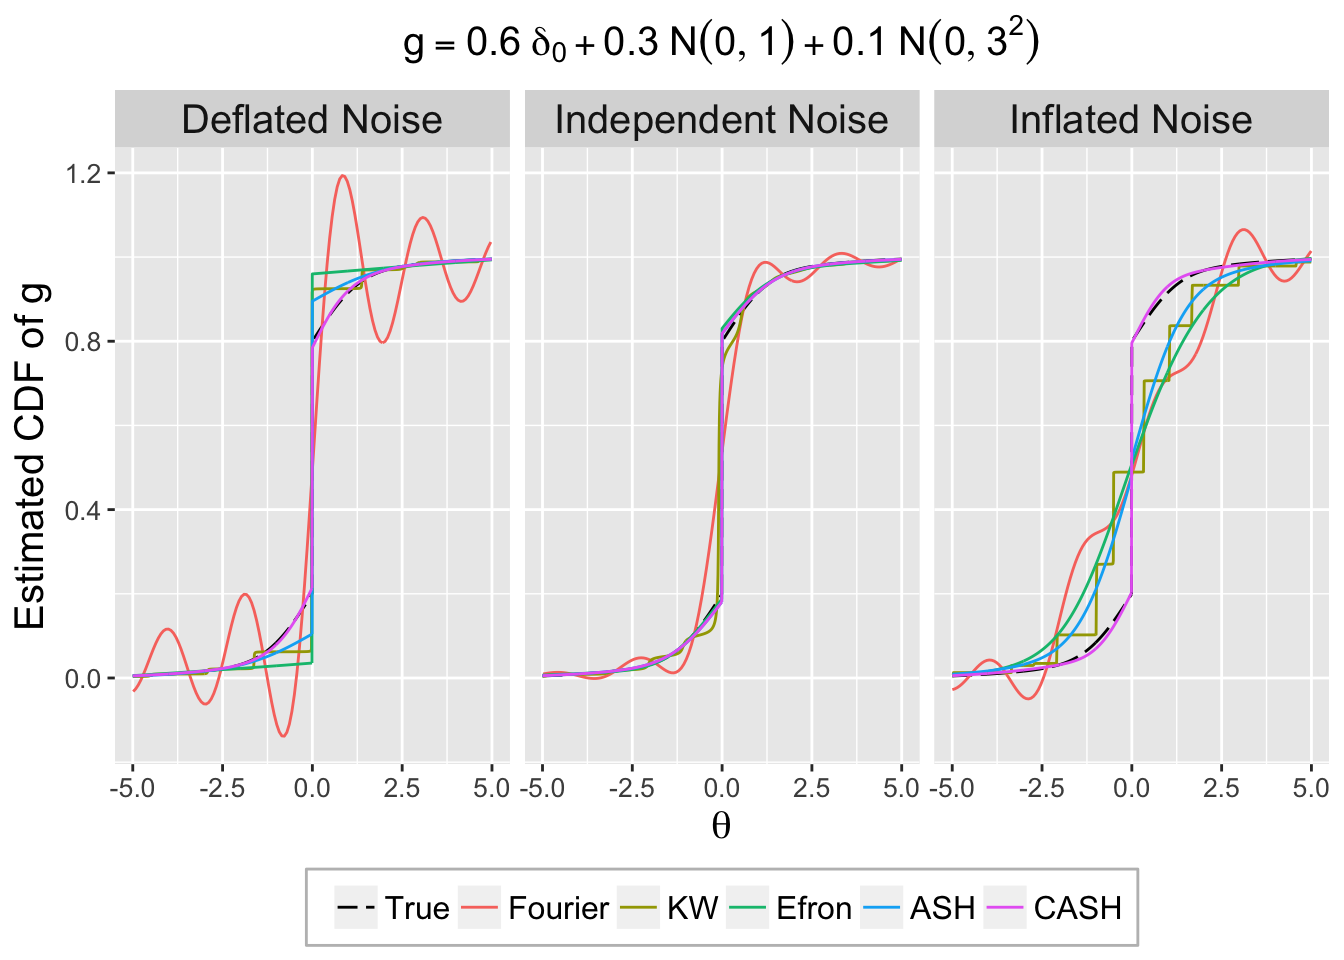
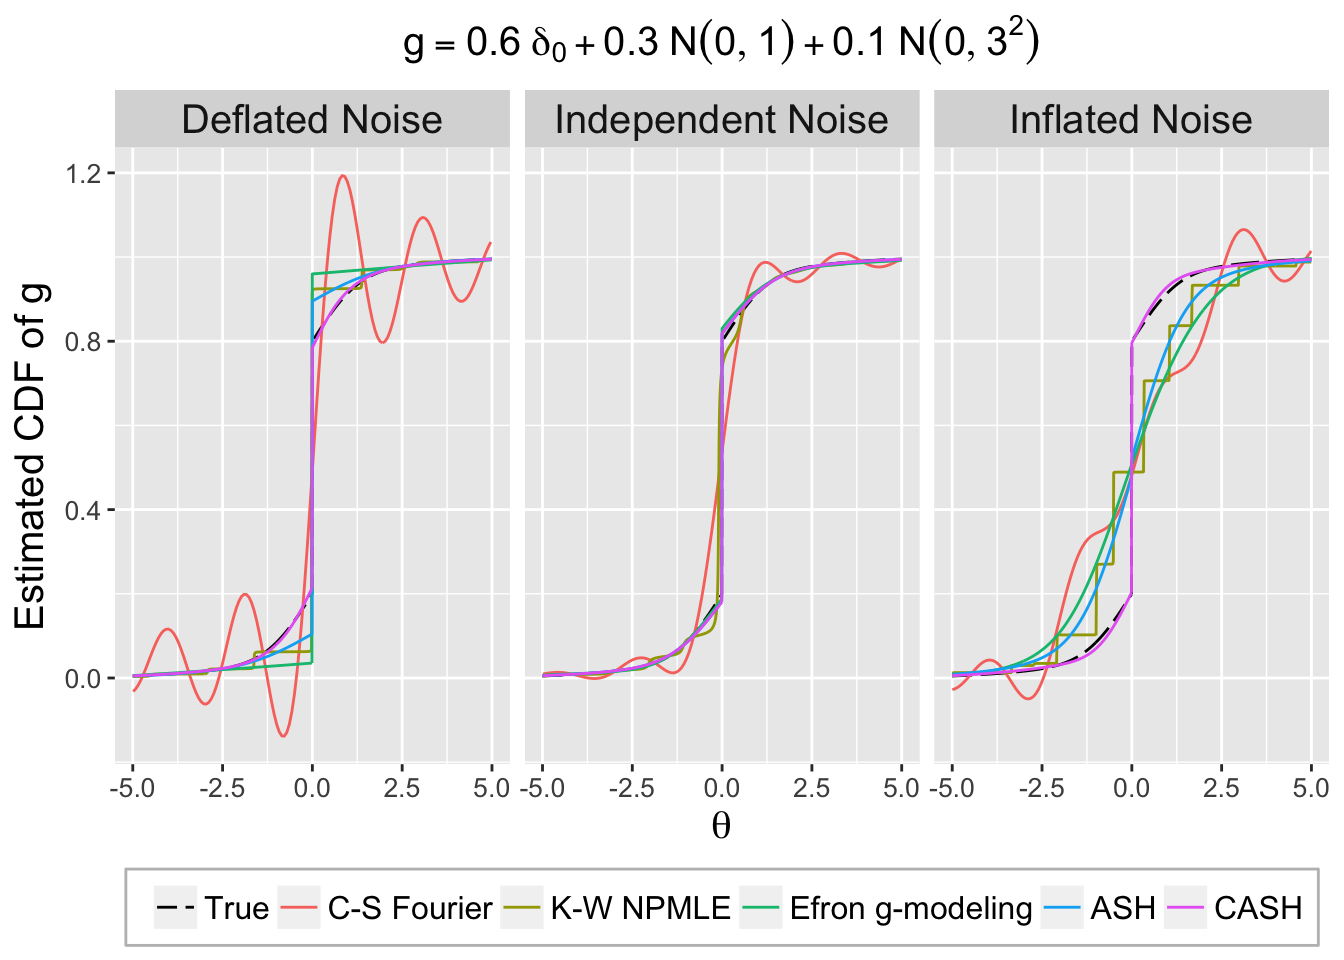
Build site.

Changed region(s): [[0.1562, 0.9062, 0.9688, 1.0], [0.0938, 0.9688, 0.125, 1.0]]

diff --git a/docs/gd_w.html b/docs/gd_w.html
@@ -332,7 +332,7 @@ div.section {
 </div>
 
 
-<p><strong>Last updated:</strong> 2018-06-02</p>
+<p><strong>Last updated:</strong> 2018-06-03</p>
 <strong>workflowr checks:</strong> <small>(Click a bullet for more information)</small>
 <ul>
 <li>
@@ -361,7 +361,7 @@ div.section {
 </li>
 <li>
 <details>
-<p><summary> <strong style="color:blue;">✔</strong> <strong>Repository version:</strong> <a href="https://github.com/LSun/truncash/tree/b7bf225a647f56e559afedc87e48c6bd9fa8a3d1" target="_blank">b7bf225</a> </summary></p>
+<p><summary> <strong style="color:blue;">✔</strong> <strong>Repository version:</strong> <a href="https://github.com/LSun/truncash/tree/7f9e4ff66cb2eb4ddf3460aedc613d2c37e6077b" target="_blank">7f9e4ff</a> </summary></p>
 Great! You are using Git for version control. Tracking code development and connecting the code version to the results is critical for reproducibility. The version displayed above was the version of the Git repository at the time these results were generated. <br><br> Note that you need to be careful to ensure that all relevant files for the analysis have been committed to Git prior to generating the results (you can use <code>wflow_publish</code> or <code>wflow_git_commit</code>). workflowr only checks the R Markdown file, but you know if there are other scripts or data files that it depends on. Below is the status of the Git repository when the results were generated:
 <pre><code>
 Ignored files:
@@ -490,6 +490,40 @@ Message
 </tr>
 </thead>
 <tbody>
+<tr>
+<td style="text-align:left;">
+rmd
+</td>
+<td style="text-align:left;">
+<a href="https://github.com/LSun/truncash/blob/7f9e4ff66cb2eb4ddf3460aedc613d2c37e6077b/analysis/gd_w.rmd" target="_blank">7f9e4ff</a>
+</td>
+<td style="text-align:left;">
+LSun
+</td>
+<td style="text-align:left;">
+2018-06-03
+</td>
+<td style="text-align:left;">
+wflow_publish(“analysis/gd_w.rmd”)
+</td>
+</tr>
+<tr>
+<td style="text-align:left;">
+html
+</td>
+<td style="text-align:left;">
+<a href="https://cdn.rawgit.com/LSun/truncash/792751b9428f530b1ec8c9dba5b892335a9ff902/docs/gd_w.html" target="_blank">792751b</a>
+</td>
+<td style="text-align:left;">
+LSun
+</td>
+<td style="text-align:left;">
+2018-06-02
+</td>
+<td style="text-align:left;">
+Build site.
+</td>
+</tr>
 <tr>
 <td style="text-align:left;">
 rmd
@@ -2061,7 +2095,7 @@ replaced by maximum positive value</code></pre>
   deconv.ind.ggdata,
   deconv.inf.ggdata
 )</code></pre>
-<pre class="r"><code>method.name &lt;- c(&quot;True&quot;, &quot;Fourier&quot;, &quot;KW&quot;, &quot;Efron&quot;, &quot;ASH&quot;, &quot;CASH&quot;)
+<pre class="r"><code>method.name &lt;- c(&quot;True&quot;, &quot;C-S Fourier&quot;, &quot;K-W NPMLE&quot;, &quot;Efron g-modeling&quot;, &quot;ASH&quot;, &quot;CASH&quot;)
 method.col &lt;- c(&quot;black&quot;, scales::hue_pal()(5))
 method.linetype &lt;- c(&quot;longdash&quot;, rep(&quot;solid&quot;, 5))</code></pre>
 <pre class="r"><code>## plotting
